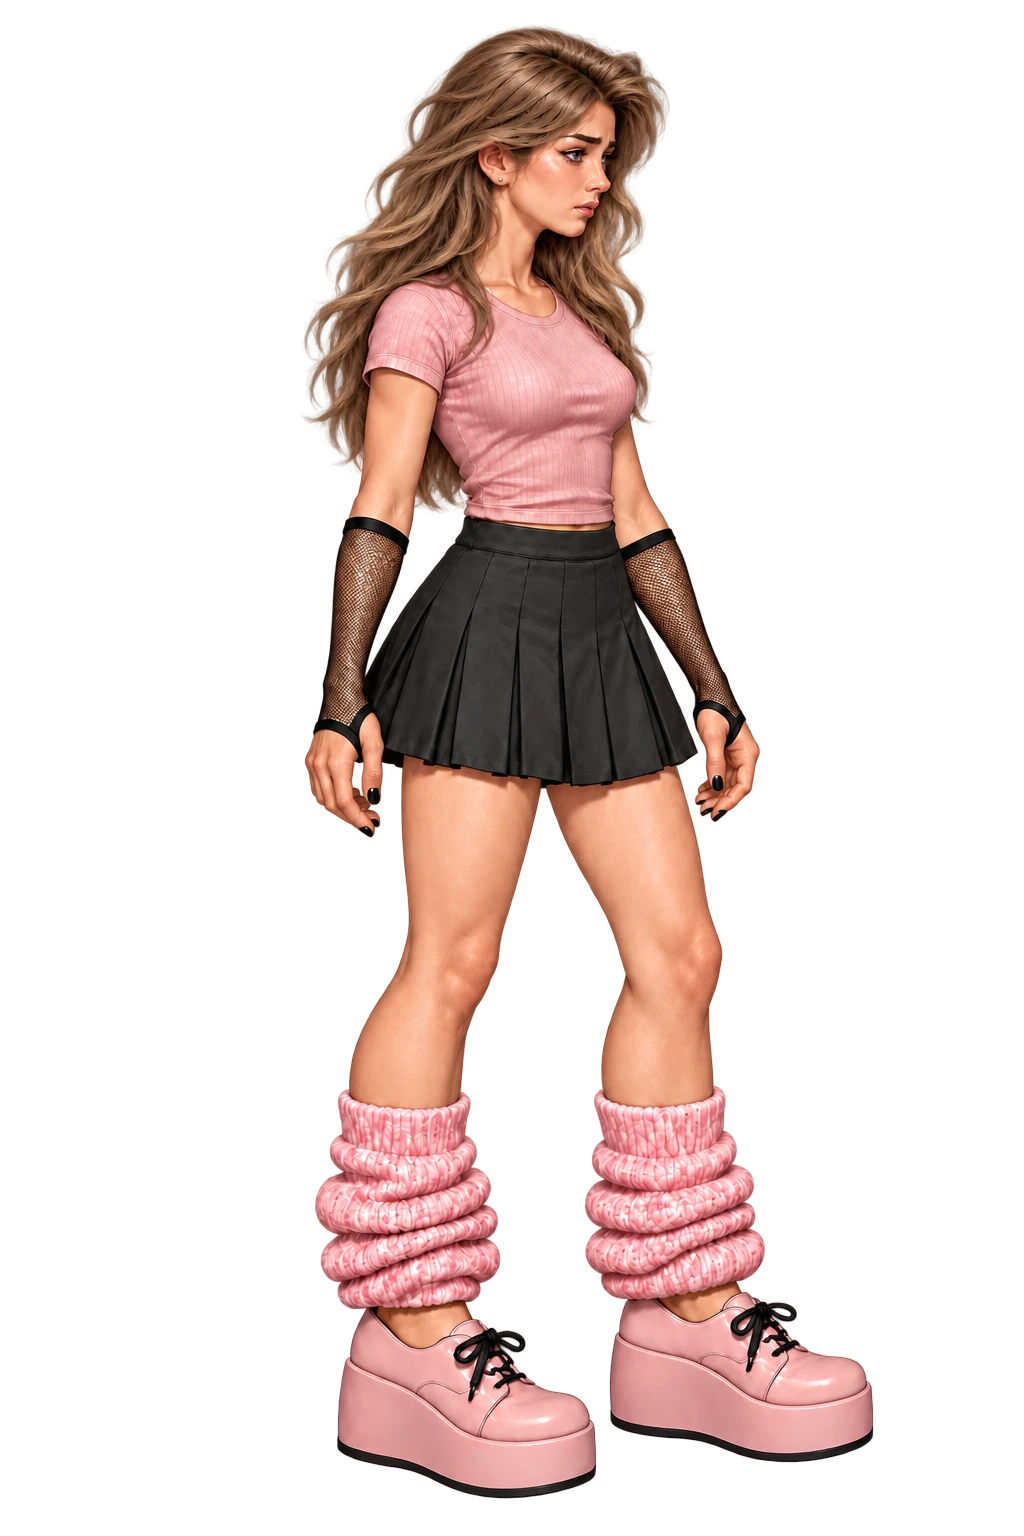
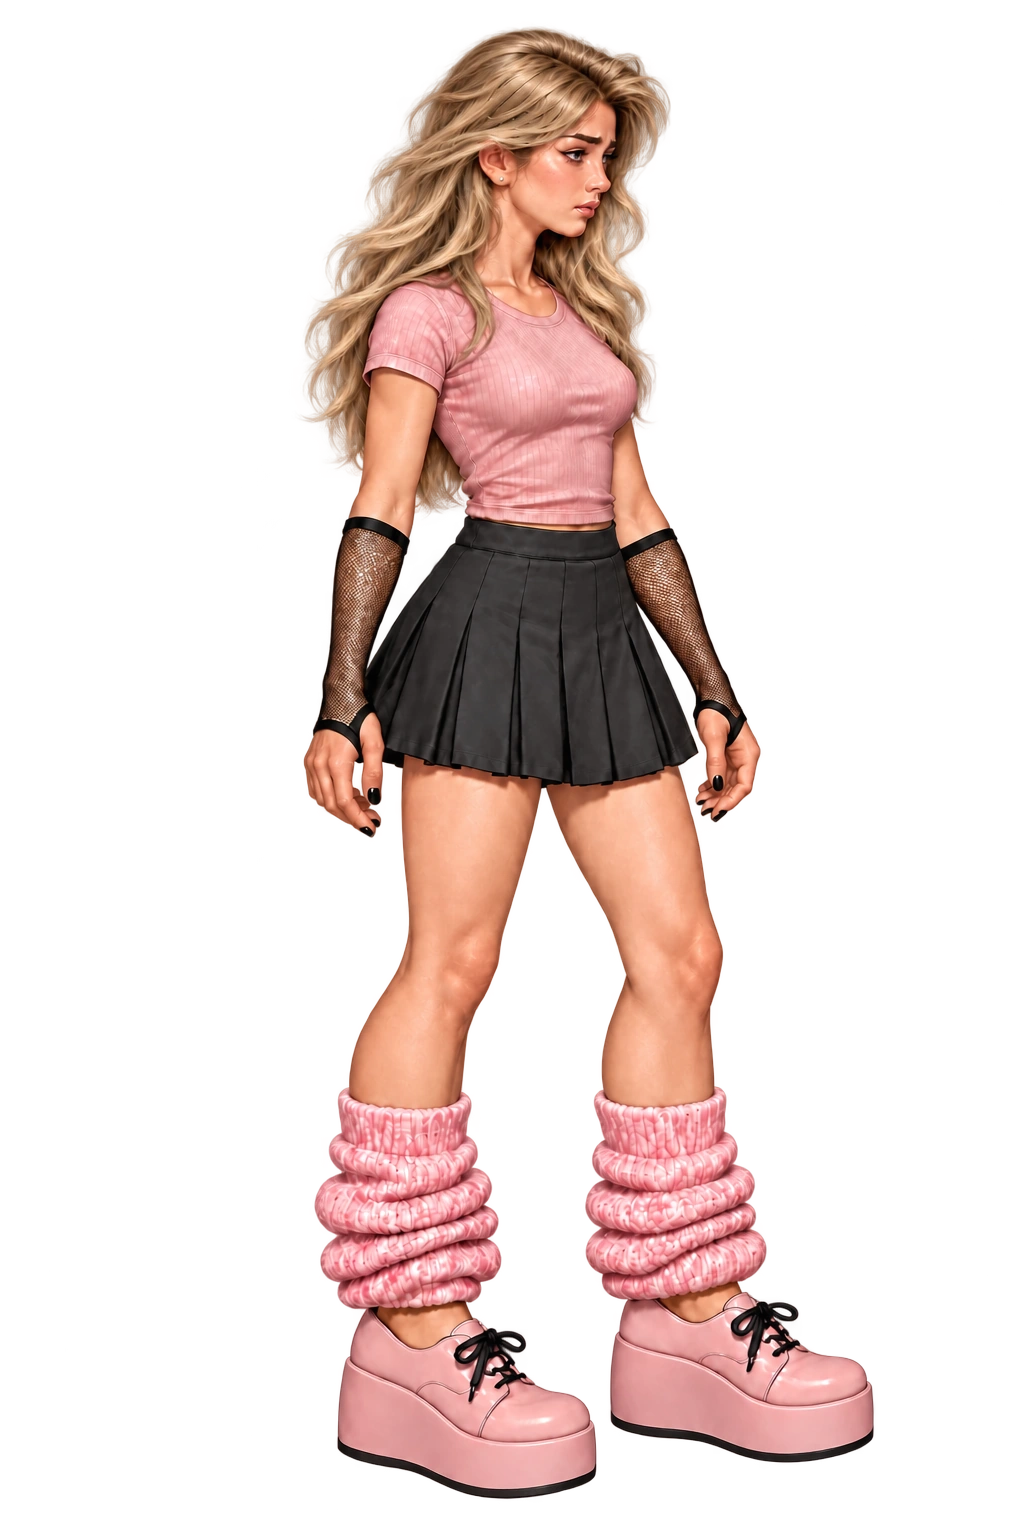
Make C's lighter layered hair clearer

diff --git a/game.js b/game.js
@@ -36,7 +36,7 @@ const PEOPLE = {
 };
 
 const order = ["C", "A", "S", "E"];
-const ART_REVISION = "case-20261010-40";
+const ART_REVISION = "case-20261010-41";
 for (const person of Object.values(PEOPLE)) {
   for (const key of Object.keys(person.art)) person.art[key] += `?v=${ART_REVISION}`;
 }

diff --git a/index.html b/index.html
@@ -84,7 +84,7 @@
     </section>
   </main>
 
-  <script src="game.js?v=case-20261010-40"></script>
+  <script src="game.js?v=case-20261010-41"></script>
 </body>
 </html>
 
